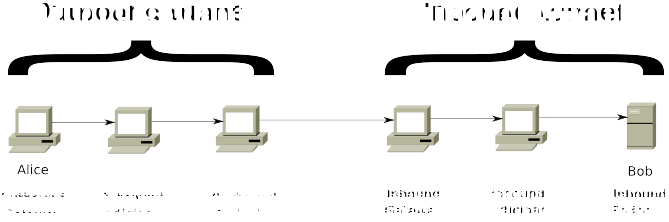
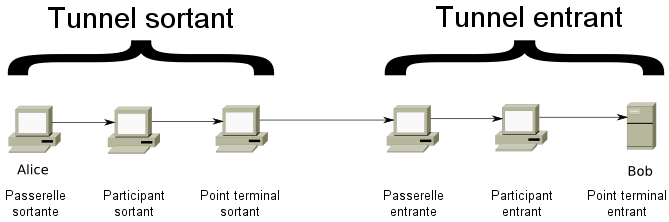
upd techintro_fr _fr.png links rebuilt, png files fixed

diff --git a/www.i2p2/pages/techintro_fr.html b/www.i2p2/pages/techintro_fr.html
@@ -111,7 +111,7 @@ Traduction (en cours) de mars 2011. <a href="techintro.html">Version anglaise ac
   </p>
   <center>
     <div class="box">
-      <img src="_static/images/tunnels.png" alt="Schéma de tunnels entrant et sortant" 
+      <img src="_static/images/tunnels_fr.png" alt="Schéma de tunnels entrant et sortant" 
       title="Schéma de tunnels entrant et sortant" />
       <br /><br />
       Figure 1: Les deux types de tunnels: entrant et sortant.
@@ -161,9 +161,9 @@ Traduction (en cours) de mars 2011. <a href="techintro.html">Version anglaise ac
   </p>
   <center>
     <div class="box">
-      <img src="_static/images/netdb_get_routerinfo_1.png" alt="Demande d'informations sur d'autres routeurs" title="Demande d'informations sur d'autres routeurs" />
+      <img src="_static/images/netdb_get_routerinfo_1_fr.png" alt="Demande d'informations sur d'autres routeurs" title="Demande d'informations sur d'autres routeurs" />
       &nbsp;&nbsp;&nbsp;&nbsp;&nbsp;&nbsp;&nbsp;&nbsp;&nbsp;&nbsp;&nbsp;&nbsp;&nbsp;&nbsp;&nbsp;&nbsp;&nbsp;&nbsp;&nbsp;
-      <img src="_static/images/netdb_get_routerinfo_2.png" alt="Construction d'un tunnel grâce aux informations sur les routeurs" title="Construction d'un tunnel grâce aux informations sur les routeurs" />
+      <img src="_static/images/netdb_get_routerinfo_2_fr.png" alt="Construction d'un tunnel grâce aux informations sur les routeurs" title="Construction d'un tunnel grâce aux informations sur les routeurs" />
       <br /><br />
       Figure 2: Les informations sur les routeurs servent à construire les tunnels.
     </div>
@@ -186,7 +186,7 @@ Traduction (en cours) de mars 2011. <a href="techintro.html">Version anglaise ac
   </p>
   <center>
     <div class="box">
-      <img src="_static/images/netdb_get_leaseset.png" alt="Connexion de tunnels grâce au baux" title="Connexion de tunnels grâce au baux" />
+      <img src="_static/images/netdb_get_leaseset_fr.png" alt="Connexion de tunnels grâce au baux" title="Connexion de tunnels grâce au baux" />
       <br /><br />
       Figure 3: Les baux sont utilisés pour connecter les tunnels sortants et entrants.
     </div>
